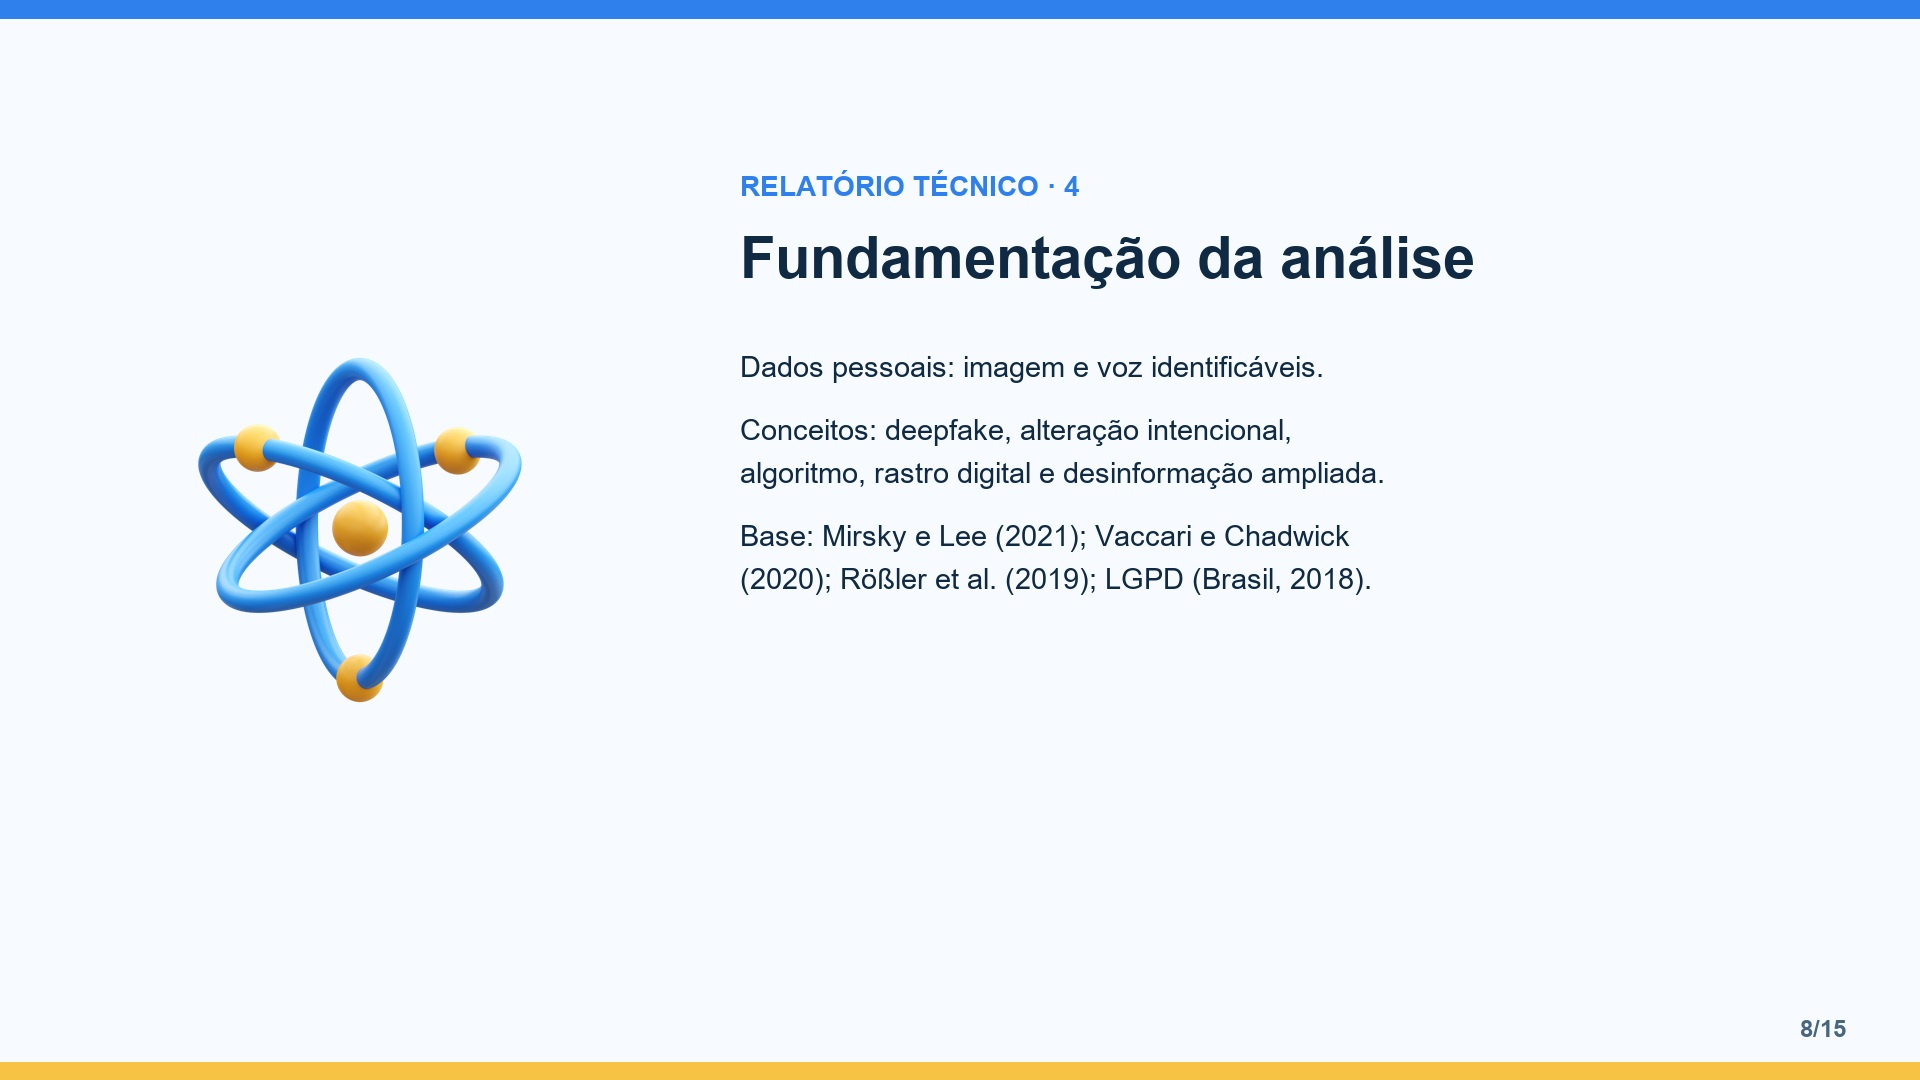
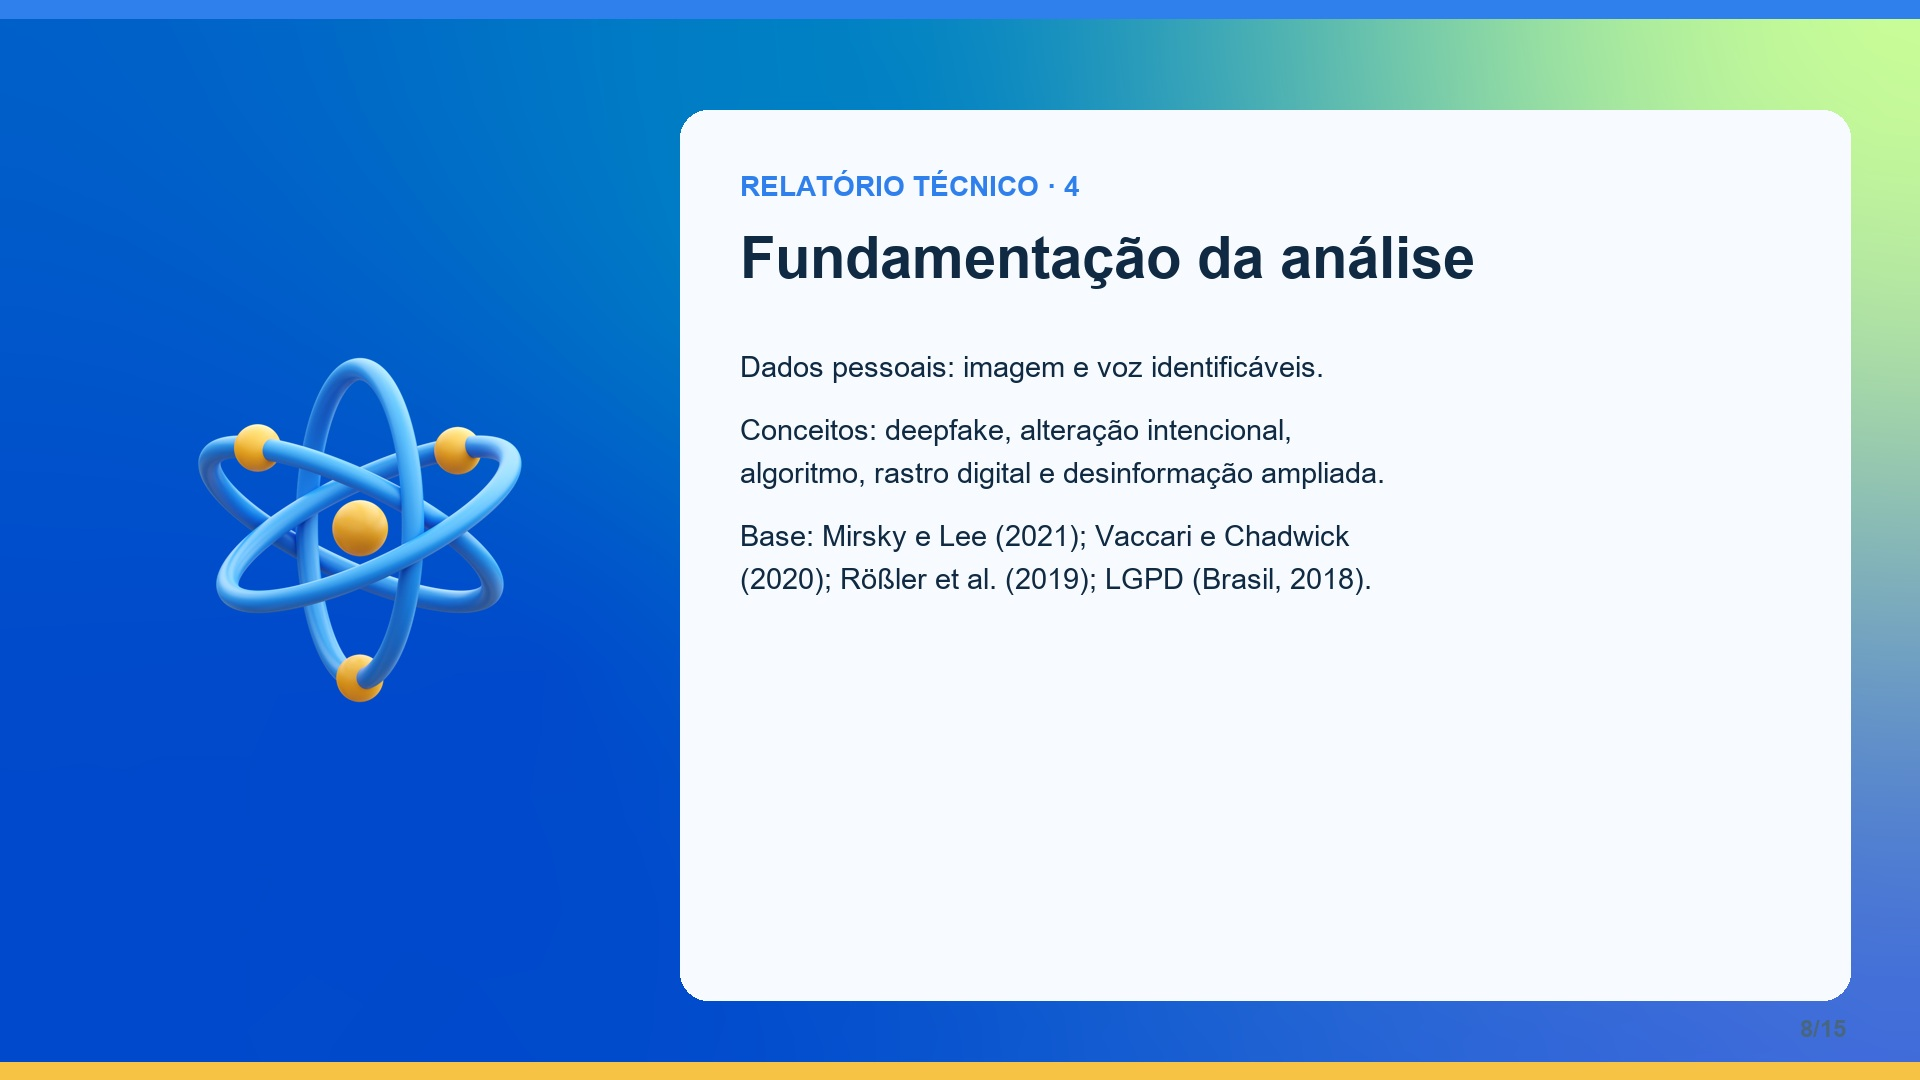
feat: aplicar fundo azul do template aos slides

diff --git a/scripts/generate_n3_jpgs.py b/scripts/generate_n3_jpgs.py
@@ -20,7 +20,8 @@ S=[
 ('CONCLUSÃO','Aprendizados principais',['Fato, evidência, inferência e hipótese precisam ser separados.','Imagem e voz podem ser reutilizadas para fabricar autoridade.','A resposta mais segura é confirmação independente antes de compartilhar ou pagar.'],'template-capa-002.png'),
 ('REFERÊNCIAS','Fontes utilizadas',['CNN BRASIL (2024). Marcos Palmeira: rosto do ator é usado com IA em golpe no Instagram.','MIRSKY; LEE (2021). The creation and detection of deepfakes. ACM Computing Surveys.','VACCARI; CHADWICK (2020). Deepfakes and disinformation. Social Media + Society.','BRASIL (2018). Lei Geral de Proteção de Dados. ANPD (2023). Guia orientativo. NIST (2023). AI Risk Management Framework.'],'template-icones-ilustracoes-107.png')]
 for i,(k,t,ps,img) in enumerate(S,1):
- im=Image.new('RGB',(1920,1080),(247,251,255));d=ImageDraw.Draw(im);d.rectangle((0,0,1920,18),fill=(47,128,237));d.rectangle((0,1062,1920,1080),fill=(246,195,68));a=Image.open(A/img).convert('RGBA');a.thumbnail((500,500));im.paste(a,(110,280),a);d.text((740,170),k,font=font(28,1),fill=(47,128,237));d.text((740,225),t,font=font(58,1),fill=(16,42,67));y=350
+ bg=Image.open(A/'template-capa-002.png').convert('RGB').resize((1920,1080))
+ im=bg.copy(); d=ImageDraw.Draw(im); d.rectangle((0,0,1920,18),fill=(47,128,237)); d.rectangle((0,1062,1920,1080),fill=(246,195,68)); d.rounded_rectangle((680,110,1850,1000),radius=28,fill=(247,251,255,238)); a=Image.open(A/img).convert('RGBA'); a.thumbnail((500,500)); im.paste(a,(110,280),a); d.text((740,170),k,font=font(28,1),fill=(47,128,237)); d.text((740,225),t,font=font(58,1),fill=(16,42,67)); y=350
  for p in ps:
   for line in textwrap.wrap(p,52):d.text((740,y),line,font=font(29),fill=(16,42,67));y+=43
   y+=20

diff --git a/issues/008-fundo-azul-template.md b/issues/008-fundo-azul-template.md
@@ -1,0 +1,9 @@
+# Aplicar fundo azul do template
+
+## Objetivo
+Usar a ilustração azul do template como fundo visual dos 15 slides N3, preservando contraste e legibilidade.
+
+## Critérios de aceite
+- Fundo azul visível em todos os JPGs.
+- Conteúdo em painel de alto contraste.
+- Imagens complementares e textos permanecem dentro da área 16:9.
